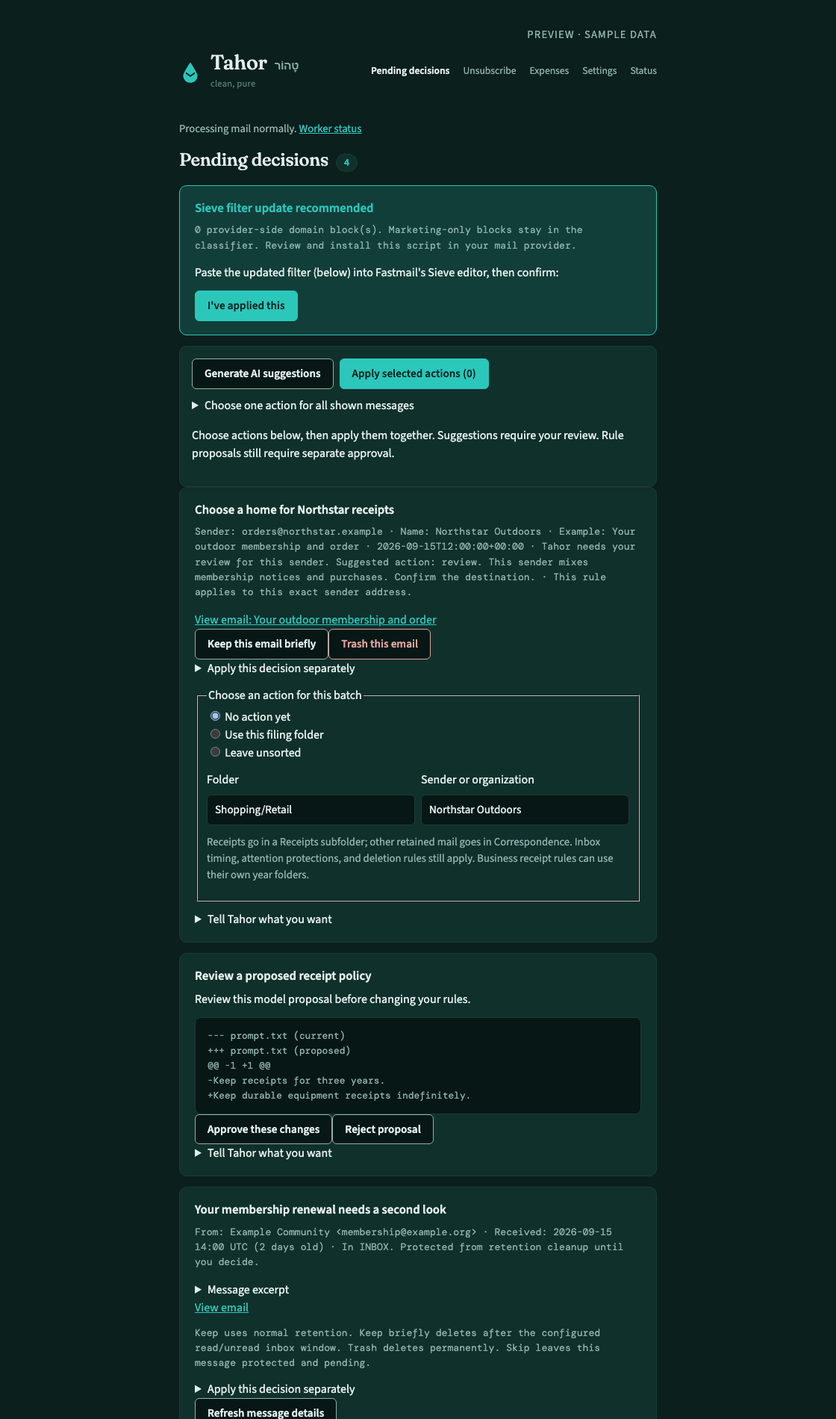
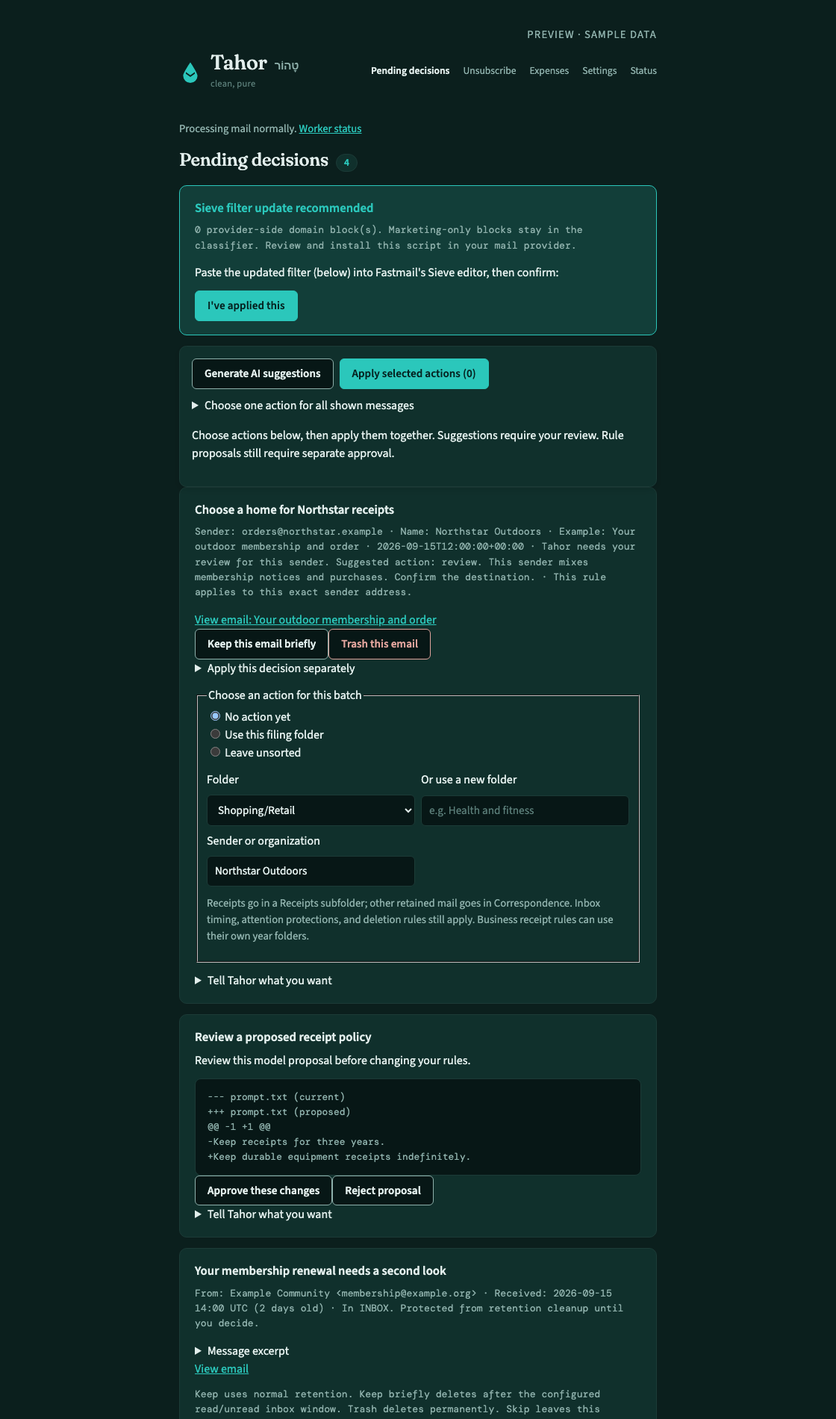
Keep full folder choices available during AI review

Changed region(s): [[0.2188, 0.5279, 0.7812, 1.0]]

diff --git a/decision_bulk_ui.py b/decision_bulk_ui.py
@@ -16,6 +16,7 @@ SCRIPT = r'''<script>
  const storageKey='tahor-decision-choices';
  let saved={}; try{saved=JSON.parse(sessionStorage.getItem(storageKey)||'{}');}catch(_){}
  const choices=()=>cards().filter(c=>!c.dataset.queued).map(c=>({decision_id:Number(c.dataset.decisionId),action:c.querySelector('[data-decision-choice]:checked')?.value,source_revision:c.dataset.decisionRevision,bucket:c.querySelector('[data-bulk-bucket]')?.value,vendor_name:c.querySelector('[data-bulk-vendor]')?.value})).filter(c=>c.action);
+ function setBucket(c,value){const field=c.querySelector('[data-bulk-bucket]');if(!field)return;field.value=value;const menu=c.querySelector('[data-bulk-folder]');const custom=c.querySelector('[data-bulk-custom-folder]');if(!menu||!custom)return;const known=[...menu.options].some(option=>option.value&&option.value===value);menu.value=known?value:'';custom.value=known?'':value;}
  function remember(){const state={};for(const c of cards()){const value=c.querySelector('[data-decision-choice]:checked')?.value;if(value||c.dataset.manual==='true')state[c.dataset.decisionId]={action:value,manual:c.dataset.manual==='true',attentionJob:c.dataset.attentionJob||'',instructionCleared:c.dataset.instructionCleared==='true',guidanceSaved:c.dataset.guidanceSaved==='true',source_revision:c.dataset.decisionRevision,bucket:c.querySelector('[data-bulk-bucket]')?.value,vendor_name:c.querySelector('[data-bulk-vendor]')?.value};}try{sessionStorage.setItem(storageKey,JSON.stringify(state));}catch(_){}}
  function prioritize(preserve=true){
   const list=document.querySelector('#decision-cards');if(!list||document.querySelector('dialog.email-preview[open]'))return;
@@ -23,29 +24,31 @@ SCRIPT = r'''<script>
   const hasRecommendation=c=>Boolean(c.querySelector('[data-decision-recommendation]')?.textContent.trim());
   const rank=c=>c.dataset.queued?3:(hasRecommendation(c)?0:(c.querySelector('[data-decision-choice]:checked')?.value?1:2));
   const ordered=[...current].sort((a,b)=>rank(a)-rank(b));
-  if(ordered.every((c,i)=>c===current[i]))return;
+  const sections=[...new Set(ordered.filter(c=>!c.dataset.queued).map(c=>hasRecommendation(c)?'AI recommendations':'Other pending decisions'))];
+  if(ordered.every((c,i)=>c===current[i])&&JSON.stringify([...list.querySelectorAll('[data-decision-section]')].map(h=>h.textContent))===JSON.stringify(sections))return;
   const edge=Math.max(0,bar.getBoundingClientRect().bottom);
   const anchor=preserve?current.find(c=>{const r=c.getBoundingClientRect();return r.bottom>edge&&r.top<window.innerHeight;}):null;
   const before=anchor?.getBoundingClientRect().top;const focused=document.activeElement;
-  list.style.overflowAnchor='none';for(const c of ordered)list.append(c);
+  list.style.overflowAnchor='none';list.querySelectorAll('[data-decision-section]').forEach(heading=>heading.remove());let section='';for(const c of ordered){const next=c.dataset.queued?'':(hasRecommendation(c)?'AI recommendations':'Other pending decisions');if(next&&next!==section){const heading=document.createElement('h2');heading.dataset.decisionSection='';heading.textContent=next;list.append(heading);section=next;}list.append(c);}
   if(anchor){const delta=anchor.getBoundingClientRect().top-before;if(delta)window.scrollBy(0,delta);}
   if(focused?.isConnected&&list.contains(focused))focused.focus({preventScroll:true});
  }
  document.addEventListener('close',()=>setTimeout(()=>prioritize(),0),{capture:true,signal});
  function count(preserve=true){bar.querySelector('[data-selected-count]').textContent=String(choices().length);prioritize(preserve);}
  function choose(c,action,manual){const radio=[...c.querySelectorAll('[data-decision-choice]')].find(r=>r.value===action);if(radio&&!c.dataset.queued){radio.checked=true;if(manual)c.dataset.manual='true';}}
- for(const c of cards()){const stored=saved[c.dataset.decisionId];const old=stored?.source_revision===c.dataset.decisionRevision?stored:null;if(old?.attentionJob)c.dataset.attentionJob=old.attentionJob;if(old?.instructionCleared)c.dataset.instructionCleared='true';if(old?.guidanceSaved)c.dataset.guidanceSaved='true';if(old?.manual){choose(c,old.action,true);if(c.querySelector('[data-bulk-bucket]')&&old.bucket!==undefined)c.querySelector('[data-bulk-bucket]').value=old.bucket;if(c.querySelector('[data-bulk-vendor]')&&old.vendor_name!==undefined)c.querySelector('[data-bulk-vendor]').value=old.vendor_name;}}
+ for(const c of cards()){const stored=saved[c.dataset.decisionId];const old=stored?.source_revision===c.dataset.decisionRevision?stored:null;if(old?.attentionJob)c.dataset.attentionJob=old.attentionJob;if(old?.instructionCleared)c.dataset.instructionCleared='true';if(old?.guidanceSaved)c.dataset.guidanceSaved='true';if(old?.manual){choose(c,old.action,true);if(old.bucket!==undefined)setBucket(c,old.bucket);if(c.querySelector('[data-bulk-vendor]')&&old.vendor_name!==undefined)c.querySelector('[data-bulk-vendor]').value=old.vendor_name;}}
  document.addEventListener('card-guidance-state',()=>remember(),{signal});
- document.addEventListener('change',event=>{const c=event.target.closest('[data-decision-id]');if(c&&event.target.matches('[data-decision-choice],[data-bulk-bucket],[data-bulk-vendor]')){if(event.isTrusted){delete c.dataset.instructionCleared;delete c.dataset.guidanceSaved;}c.dataset.manual='true';remember();count();}},{signal});
- bar.querySelector('[data-select-all]').addEventListener('click',()=>{const action=bar.querySelector('[data-bulk-choice]').value;for(const c of cards())choose(c,action,true);remember();count();});
+ document.addEventListener('change',event=>{const c=event.target.closest('[data-decision-id]');if(c&&event.target.matches('[data-decision-choice],[data-bulk-bucket],[data-bulk-folder],[data-bulk-custom-folder],[data-bulk-vendor]')){if(event.target.matches('[data-bulk-folder]'))setBucket(c,event.target.value);if(event.target.matches('[data-bulk-custom-folder]')){c.querySelector('[data-bulk-bucket]').value=event.target.value;c.querySelector('[data-bulk-folder]').value='';}if(event.isTrusted){delete c.dataset.instructionCleared;delete c.dataset.guidanceSaved;}c.dataset.manual='true';remember();count();}},{signal});
+ document.addEventListener('input',event=>{if(event.target.matches('[data-bulk-custom-folder]')){const c=event.target.closest('[data-decision-id]');if(c&&event.isTrusted){delete c.dataset.instructionCleared;delete c.dataset.guidanceSaved;}event.target.dispatchEvent(new Event('change',{bubbles:true}));}},{signal});
+ bar.querySelector('[data-select-all]').addEventListener('click',()=>{const action=bar.querySelector('[data-bulk-choice]').value;for(const c of cards())choose(c,action,true);remember();count();},{signal});
  async function request(url,values){const options={credentials:'same-origin',headers:{Accept:'application/json'}};if(values){options.method='POST';options.body=new URLSearchParams({csrf_token:csrf,...values});}const response=await fetch(url,options);const body=await response.json();if(!response.ok){const error=new Error(body.error||'The request could not be confirmed.');error.status=response.status;error.unavailableIds=body.unavailable_ids;throw error;}return body;}
  const wait=()=>new Promise(resolve=>setTimeout(resolve,2000));
  const watched=new Set();
  async function follow(job,replace=false){if(watched.has(job.job_id))return;watched.add(job.job_id);busy(job.job_id,job.status!=='complete');for(const item of job.items){const c=cardFor(item.decision_id);if(c&&(replace===true||!c.dataset.actionJob))c.dataset.actionJob=job.job_id;}try{while(true){if(signal.aborted)return;for(const item of job.items){const c=cardFor(item.decision_id);if(!c||c.dataset.actionJob!==job.job_id)continue;c.dataset.queued='true';c.querySelectorAll('[data-decision-choice]').forEach(r=>r.disabled=true);c.querySelector('.decision-result').textContent=item.message;if(item.status==='done'||item.status==='attention'||item.status==='uncertain'){c.dataset.finished='true';}if(item.status==='done'){c.querySelector('.decision-result').textContent='Completed: '+item.message;const controls=c.querySelector('[data-decision-choices]');if(controls)controls.hidden=true;}if(item.status==='attention'&&item.retry_allowed===false){const controls=c.querySelector('[data-decision-choices]');if(controls)controls.hidden=true;}if(item.status==='attention'&&item.retry_allowed!==false){delete c.dataset.queued;c.querySelectorAll('[data-decision-choice]').forEach(r=>r.disabled=false);if(c.dataset.attentionJob!==job.job_id){choose(c,'',true);c.dataset.attentionJob=job.job_id;}}}remember();count();if(job.status==='complete')break;await wait();job=await request('/decisions/batches/'+job.job_id);} }catch(error){notice.textContent='Progress temporarily unavailable. Queued actions remain saved; progress will be available when the connection recovers.';}finally{watched.delete(job.job_id);busy(job.job_id,false);}}
  let sending=false;let pending=null;
- apply.addEventListener('click',async()=>{if(sending)return;const selected=choices();if(!pending&&selected.some(item=>item.action==='map'&&(!item.bucket?.trim()||!item.vendor_name?.trim()))){notice.textContent='Enter a folder and vendor for each selected filing action.';return;}if(!pending&&!selected.length){notice.textContent='Choose an action for at least one sender.';return;}pending=pending||{request_key:[...crypto.getRandomValues(new Uint8Array(16))].map(value=>value.toString(16).padStart(2,'0')).join(''),selections:JSON.stringify(selected)};sending=true;apply.disabled=true;apply.setAttribute('aria-busy','true');busy('submit',true);notice.textContent='Saving selected actions…';try{const job=await request('/decisions/batches',pending);pending=null;notice.textContent='Selected actions are queued. You can continue reviewing other decisions.';follow(job,true);}catch(error){if(error.status>=400&&error.status<500){pending=null;for(const id of error.unavailableIds||[]){const c=cardFor(id);if(!c)continue;c.dataset.queued='true';c.querySelectorAll('[data-decision-choice]').forEach(r=>{r.checked=false;r.disabled=true;});const controls=c.querySelector('[data-decision-choices]');if(controls)controls.hidden=true;c.querySelector('.decision-result').textContent='Already handled or queued. Excluded from this batch.';}remember();count();notice.textContent=error.message+' Your remaining choices are preserved. Apply selected actions to submit them.';}else{notice.textContent=error.message+' Retry Apply selected actions to confirm this same request.';}}finally{sending=false;apply.disabled=false;apply.removeAttribute('aria-busy');busy('submit',false);}});
- function suggestions(job){if(signal.aborted)return;for(const suggestion of job.recommendations||[]){const c=cardFor(suggestion.decision_id);if(!c||c.dataset.manual==='true'||c.dataset.queued)continue;c.dataset.decisionRevision=suggestion.source_revision;const bucket=c.querySelector('[data-bulk-bucket]');const vendor=c.querySelector('[data-bulk-vendor]');if(bucket&&suggestion.bucket)bucket.value=suggestion.bucket;if(vendor&&suggestion.vendor_name)vendor.value=suggestion.vendor_name;choose(c,suggestion.action,false);c.dataset.recommended='true';let reason=c.querySelector('[data-decision-recommendation]');if(!reason){reason=document.createElement('p');reason.dataset.decisionRecommendation='';c.querySelector('[data-decision-choices]').before(reason);}reason.textContent='AI suggestion: '+suggestion.reason;}remember();count();}
- generate.addEventListener('click',async()=>{if(generate.disabled)return;generate.disabled=true;generate.setAttribute('aria-busy','true');busy('generate',true);for(const c of cards()){if(c.dataset.guidanceSaved==='true'&&c.dataset.instructionCleared==='true'&&!c.dataset.queued){delete c.dataset.manual;delete c.dataset.guidanceSaved;delete c.dataset.instructionCleared;}}remember();notice.textContent='Generating suggestions for the next batch…';try{let job=await request('/decisions/suggestions',{exclude_ids:JSON.stringify(cards().filter(c=>c.dataset.manual==='true'||c.dataset.queued).map(c=>Number(c.dataset.decisionId)))});suggestions(job);while(job.status!=='complete'&&job.status!=='failed'){if(signal.aborted)return;notice.textContent=job.error||((job.status==='queued'?'Waiting for the background worker. ':'Generating suggestions. ')+(job.completed||0)+' of '+(job.total||0)+' processed. '+((job.recommendations||[]).length?(job.recommendations.length+' suggestions ready for review.'):'No suggestions are ready yet.'));await wait();job=await request('/decisions/suggestions/'+job.job_id);suggestions(job);}notice.textContent=job.error||((job.recommendations||[]).length?'Suggestions are selected for review. Nothing is applied until you submit.':'No new suggestions in this batch. Your current choices are unchanged.');}catch(error){notice.textContent=error.message;}finally{generate.disabled=false;generate.removeAttribute('aria-busy');busy('generate',false);}});
+ apply.addEventListener('click',async()=>{if(sending)return;const selected=choices();if(!pending&&selected.some(item=>item.action==='map'&&(!item.bucket?.trim()||!item.vendor_name?.trim()))){notice.textContent='Enter a folder and vendor for each selected filing action.';return;}if(!pending&&!selected.length){notice.textContent='Choose an action for at least one sender.';return;}pending=pending||{request_key:[...crypto.getRandomValues(new Uint8Array(16))].map(value=>value.toString(16).padStart(2,'0')).join(''),selections:JSON.stringify(selected)};sending=true;apply.disabled=true;apply.setAttribute('aria-busy','true');busy('submit',true);notice.textContent='Saving selected actions…';try{const job=await request('/decisions/batches',pending);pending=null;notice.textContent='Selected actions are queued. You can continue reviewing other decisions.';follow(job,true);}catch(error){if(error.status>=400&&error.status<500){pending=null;for(const id of error.unavailableIds||[]){const c=cardFor(id);if(!c)continue;c.dataset.queued='true';c.querySelectorAll('[data-decision-choice]').forEach(r=>{r.checked=false;r.disabled=true;});const controls=c.querySelector('[data-decision-choices]');if(controls)controls.hidden=true;c.querySelector('.decision-result').textContent='Already handled or queued. Excluded from this batch.';}remember();count();notice.textContent=error.message+' Your remaining choices are preserved. Apply selected actions to submit them.';}else{notice.textContent=error.message+' Retry Apply selected actions to confirm this same request.';}}finally{sending=false;apply.disabled=false;apply.removeAttribute('aria-busy');busy('submit',false);}},{signal});
+ function suggestions(job){if(signal.aborted)return;for(const suggestion of job.recommendations||[]){const c=cardFor(suggestion.decision_id);if(!c||c.dataset.manual==='true'||c.dataset.queued)continue;c.dataset.decisionRevision=suggestion.source_revision;const bucket=c.querySelector('[data-bulk-bucket]');const vendor=c.querySelector('[data-bulk-vendor]');if(bucket&&suggestion.bucket)setBucket(c,suggestion.bucket);if(vendor&&suggestion.vendor_name)vendor.value=suggestion.vendor_name;choose(c,suggestion.action,false);c.dataset.recommended='true';let reason=c.querySelector('[data-decision-recommendation]');if(!reason){reason=document.createElement('p');reason.dataset.decisionRecommendation='';c.querySelector('[data-decision-choices]').before(reason);}reason.textContent='AI suggestion: '+suggestion.reason;}remember();count();}
+ generate.addEventListener('click',async()=>{if(generate.disabled)return;generate.disabled=true;generate.setAttribute('aria-busy','true');busy('generate',true);for(const c of cards()){if(c.dataset.guidanceSaved==='true'&&c.dataset.instructionCleared==='true'&&!c.dataset.queued){delete c.dataset.manual;delete c.dataset.guidanceSaved;delete c.dataset.instructionCleared;}}remember();notice.textContent='Generating suggestions for the next batch…';try{let job=await request('/decisions/suggestions',{exclude_ids:JSON.stringify(cards().filter(c=>c.dataset.manual==='true'||c.dataset.queued).map(c=>Number(c.dataset.decisionId)))});suggestions(job);while(job.status!=='complete'&&job.status!=='failed'){if(signal.aborted)return;notice.textContent=job.error||((job.status==='queued'?'Waiting for the background worker. ':'Generating suggestions. ')+(job.completed||0)+' of '+(job.total||0)+' processed. '+((job.recommendations||[]).length?(job.recommendations.length+' suggestions ready for review.'):'No suggestions are ready yet.'));await wait();job=await request('/decisions/suggestions/'+job.job_id);suggestions(job);}notice.textContent=job.error||((job.recommendations||[]).length?'Suggestions are selected for review. Nothing is applied until you submit.':'No new suggestions in this batch. Your current choices are unchanged.');}catch(error){notice.textContent=error.message;}finally{generate.disabled=false;generate.removeAttribute('aria-busy');busy('generate',false);}},{signal});
  count(false);request('/decisions/batches').then(jobs=>jobs.forEach(job=>follow(job))).catch(()=>{notice.textContent='Saved progress could not be loaded. Reload before submitting existing work.';});
  }
  initialize();document.addEventListener('tahor-decisions-updated',initialize);
@@ -83,8 +86,12 @@ def choices(row, revision, suggestion=None, buckets=()):
             context = {}
         bucket = (suggestion or {}).get('bucket') or context.get('suggested_bucket') or ''
         vendor = (suggestion or {}).get('vendor_name') or context.get('suggested_vendor') or context.get('display_name') or ''
-        fields = (f'<div class="fields" style="margin-top:.75rem"><label>Folder <input type="text" data-bulk-bucket list="decision-folders-{row["id"]}" value="{escape(bucket)}"></label>'
-                  f'<datalist id="decision-folders-{row["id"]}">' + ''.join(f'<option value="{escape(b)}">' for b in buckets) + '</datalist>'
+        known_buckets = list(dict.fromkeys(buckets))
+        folder_options = ''.join(f'<option value="{escape(b)}"{" selected" if b == bucket else ""}>{escape(b)}</option>' for b in known_buckets)
+        custom_bucket = '' if bucket in known_buckets else bucket
+        fields = (f'<div class="fields" style="margin-top:.75rem"><input type="hidden" data-bulk-bucket value="{escape(bucket)}">'
+                  f'<label>Folder <select data-bulk-folder><option value="">Choose a folder</option>{folder_options}</select></label>'
+                  f'<label>Or use a new folder <input type="text" data-bulk-custom-folder value="{escape(custom_bucket)}" placeholder="e.g. Health and fitness"></label>'
                   f'<label>Sender or organization <input type="text" data-bulk-vendor value="{escape(vendor)}"></label></div>'
                   '<p class="hint">Receipts go in a Receipts subfolder; other retained mail goes in Correspondence. Inbox timing, attention protections, and deletion rules still apply. Business receipt rules can use their own year folders.</p>')
     reason = 'AI suggestion: ' + suggestion.get('reason', '') if suggestion else ''

diff --git a/tests/test_pending_folder_picker.py b/tests/test_pending_folder_picker.py
@@ -1,0 +1,57 @@
+"""Pending folder controls retain all choices and submit the visible selection."""
+import json
+import os
+import shutil
+import subprocess
+import unittest
+
+import decision_bulk_ui
+
+
+class PendingFolderPickerTests(unittest.TestCase):
+    def card(self, number, suggestion=None):
+        row = {'id': number, 'kind': 'vendor_mapping', 'context': '{}'}
+        fields = decision_bulk_ui.choices(row, 'r1', suggestion, ['Vehicles', 'Shopping/Retail', 'Finance'])
+        return '<div data-decision-id="%s" data-bulk-eligible="true" data-decision-revision="r1">%s</div>' % (number, fields)
+
+    def test_menu_contains_every_folder_when_ai_preselects_one(self):
+        rendered = self.card(1, {'action': 'map', 'bucket': 'Vehicles', 'vendor_name': 'Vendor'})
+        self.assertIn('<option value="Vehicles" selected>Vehicles</option>', rendered)
+        self.assertIn('<option value="Finance">Finance</option>', rendered)
+        self.assertIn('data-bulk-custom-folder', rendered)
+        self.assertNotIn('<datalist', rendered)
+
+    @unittest.skipUnless(shutil.which('node') and os.environ.get('TAHOR_JSDOM_MODULE'), 'Set TAHOR_JSDOM_MODULE for DOM checks')
+    def test_known_custom_restored_and_ai_folders_and_recommendation_sections(self):
+        page = '<main>' + decision_bulk_ui.BAR.replace('<form ', '<input name="csrf_token" value="csrf"><form ')
+        page += '<div id="decision-cards">' + self.card(2) + self.card(1, {'action': 'map', 'bucket': 'Vehicles', 'vendor_name': 'Vendor', 'reason': 'Receipt'}) + '</div></main>'
+        harness = r'''
+const assert=require('node:assert/strict');const {JSDOM}=require(process.env.TAHOR_JSDOM_MODULE);
+const dom=new JSDOM(PAGE,{url:'https://example.test/',runScripts:'outside-only'});const w=dom.window,calls=[];
+w.scrollBy=()=>{};w.fetch=(url,options)=>new Promise(resolve=>calls.push({url,options,resolve}));
+w.eval(SCRIPT);const settle=()=>new Promise(r=>setImmediate(r));
+(async()=>{
+ calls[0].resolve({ok:true,json:async()=>[]});await settle();
+ const one=w.document.querySelector('[data-decision-id="1"]'), two=w.document.querySelector('[data-decision-id="2"]');
+ assert.deepEqual([...w.document.querySelector('#decision-cards').children].map(e=>e.dataset.decisionId||e.textContent),['AI recommendations','1','Other pending decisions','2']);
+ const select=one.querySelector('[data-bulk-folder]');assert.equal(select.options.length,4);assert.equal(select.value,'Vehicles');
+ select.value='Finance';select.dispatchEvent(new w.Event('change',{bubbles:true}));assert.equal(one.querySelector('[data-bulk-bucket]').value,'Finance');
+ const custom=one.querySelector('[data-bulk-custom-folder]');custom.value='Health/Fitness';custom.dispatchEvent(new w.Event('input',{bubbles:true}));assert.equal(select.value,'');assert.equal(one.querySelector('[data-bulk-bucket]').value,'Health/Fitness');
+ assert.equal(JSON.parse(w.sessionStorage.getItem('tahor-decision-choices'))['1'].bucket,'Health/Fitness');
+ custom.value='';one.querySelector('[data-bulk-bucket]').value='';w.document.dispatchEvent(new w.Event('tahor-decisions-updated'));await settle();
+ // Reinitialization must restore both the canonical value and visible custom control.
+ assert.equal(one.querySelector('[data-bulk-custom-folder]').value,'Health/Fitness');
+ // Resolve any refresh status request before generating suggestions.
+ for(const call of calls.slice(1))call.resolve({ok:true,json:async()=>[]});await settle();
+ const before=calls.length;w.document.querySelector('[data-generate]').click();
+ calls[before].resolve({ok:true,json:async()=>({job_id:'j',status:'complete',total:1,completed:1,recommendations:[{decision_id:2,source_revision:'r1',action:'map',bucket:'New category',vendor_name:'Another vendor',reason:'Classified archive'}]})});await settle();
+ assert.equal(two.querySelector('[data-bulk-bucket]').value,'New category');assert.equal(two.querySelector('[data-bulk-custom-folder]').value,'New category');assert.equal(two.querySelector('[data-bulk-folder]').value,'');
+ assert.deepEqual([...w.document.querySelectorAll('[data-decision-section]')].map(h=>h.textContent),['AI recommendations']);
+ const next=calls.length;w.document.querySelector('[data-generate]').click();calls[next].resolve({ok:true,json:async()=>({job_id:'j2',status:'complete',total:1,completed:1,recommendations:[{decision_id:2,source_revision:'r1',action:'map',bucket:'Finance',vendor_name:'Another vendor',reason:'Updated classification'}]})});await settle();assert.equal(two.querySelector('[data-bulk-folder]').value,'Finance');assert.equal(two.querySelector('[data-bulk-custom-folder]').value,'');
+ w.document.querySelector('[data-apply]').click();const submitted=JSON.parse(calls.at(-1).options.body.get('selections'));
+ assert.equal(submitted.find(x=>x.decision_id===1).bucket,'Health/Fitness');assert.equal(submitted.find(x=>x.decision_id===2).bucket,'Finance');w.close();
+})().catch(error=>{console.error(error);process.exitCode=1;});
+'''
+        script = decision_bulk_ui.SCRIPT.removeprefix('<script>').removesuffix('</script>')
+        result = subprocess.run([shutil.which('node'), '-e', 'const PAGE='+json.dumps(page)+';const SCRIPT='+json.dumps(script)+';'+harness], capture_output=True, text=True, timeout=15)
+        self.assertEqual(result.returncode, 0, result.stderr)

diff --git a/tests/test_pending_recommendation_ui.py b/tests/test_pending_recommendation_ui.py
@@ -26,6 +26,13 @@ class PendingRecommendationRoutes(AppTestCase):
         self.assertIn('data-generate',body)
         self.assertIn('data-decision-choice',body)
 
+    def test_ready_recommendation_is_visible_even_while_sender_enrichment_is_automatic(self):
+        self.seed(1, 'vendor_mapping')
+        with patch('decision_suggestions.latest_recommendations', return_value=[{'decision_id': 1, 'action': 'unsorted', 'reason': 'Review this sender', 'source_revision': 'sample'}]), patch('vendor_suggestions.pending_work_ids', return_value=['vendor:1']), patch.object(self.module.mailbox_settings, 'is_ai_enabled', return_value=True):
+            body = self.client.get('/').get_data(as_text=True)
+        self.assertIn('data-decision-id="1"', body)
+        self.assertIn('AI suggestion: Review this sender', body)
+
     def test_settings_exposes_default_twenty_and_autosaves_task(self):
         page=self.client.get('/settings').get_data(as_text=True)
         self.assertIn('data-ai-task="decisions"',page)
@@ -54,11 +61,11 @@ const card=id=>w.document.querySelector('[data-decision-id="'+id+'"]');const sel
  w.document.querySelector('[data-generate]').click();assert.equal(calls[1].url,'/decisions/suggestions');
  answer(calls[1],{job_id:'ai',status:'complete',recommendations:[{decision_id:1,action:'trash',reason:'Wrong',source_revision:'r1'},{decision_id:2,action:'map',bucket:'Business/Software',vendor_name:'Example Vendor',reason:'Receipt',source_revision:'new2'}]});await settle();
  assert.equal(card(1).querySelector('input:checked').value,'keep');assert.equal(card(2).querySelector('[data-bulk-bucket]').value,'Business/Software');
- assert.deepEqual([...w.document.querySelector('#decision-cards').children].map(c=>c.dataset.decisionId),['2','1','3']);
+ assert.deepEqual([...w.document.querySelector('#decision-cards').querySelectorAll('[data-decision-id]')].map(c=>c.dataset.decisionId),['2','1','3']);
  assert.equal(w.document.querySelector('[data-selected-count]').textContent,'2');
  // A stale flag without visible advice must not compete with real advice.
  card(3).dataset.recommended='true';select(3,'');
- assert.deepEqual([...w.document.querySelector('#decision-cards').children].map(c=>c.dataset.decisionId),['2','1','3']);
+ assert.deepEqual([...w.document.querySelector('#decision-cards').querySelectorAll('[data-decision-id]')].map(c=>c.dataset.decisionId),['2','1','3']);
  // Status updates must not erase the independently displayed AI reason.
  card(2).querySelector('.decision-result').textContent='Retry needed';
  assert.equal(card(2).querySelector('[data-decision-recommendation]').textContent,'AI suggestion: Receipt');

diff --git a/decision_interactions.py b/decision_interactions.py
@@ -57,7 +57,7 @@ SCRIPT = r'''<script>
         oldFields.forEach((field, index) => {
           const target = newFields[index];
           if (!target || target.name !== field.name || field.type === 'hidden') return;
-          const bulkField=field.matches('[data-decision-choice],[data-bulk-bucket],[data-bulk-vendor]');
+          const bulkField=field.matches('[data-decision-choice],[data-bulk-bucket],[data-bulk-folder],[data-bulk-custom-folder],[data-bulk-vendor]');
           if(bulkField&&other.dataset.decisionRevision!==fresh.dataset.decisionRevision)return;
           if (field.type === 'checkbox' || field.type === 'radio') { if(target.value===field.value)target.checked=field.checked; }
           else target.value = field.value;

diff --git a/decision-app/app.py b/decision-app/app.py
@@ -785,7 +785,7 @@ def index():
                 vendor_context = {}
             if vendor_review_state.reconcile(db, row, vendor_context):
                 continue
-            if ('vendor:' + str(row['id']) in automatic_ids or (mailbox_settings.is_ai_enabled('rule') and vendor_context.get('automatic_vendor_mapping'))):
+            if row['id'] not in recommendations and ('vendor:' + str(row['id']) in automatic_ids or (mailbox_settings.is_ai_enabled('rule') and vendor_context.get('automatic_vendor_mapping'))):
                 automatic_count += 1
                 continue
             suggested_bucket = vendor_context.get('suggested_bucket')

diff --git a/README.md b/README.md
@@ -178,7 +178,7 @@ place so you can keep working without losing your position.
 **Generate AI suggestions** on Pending decisions recommends up to **20 items**
 per batch by default. Adjust its independent model policy, batch size, and written
 guidance in Settings. Recommended items rise above undecided ones. Review the
-radio choices, then apply a batch from the sticky toolbar; individual decisions
+radio choices and choose any existing filing folder from the full dropdown, or enter a new folder. Apply a batch from the sticky toolbar; individual decisions
 remain available. Your confirmed choices guide future recommendations, including
 choices still waiting for mailbox recovery. Rule proposals require separate approval.
 
